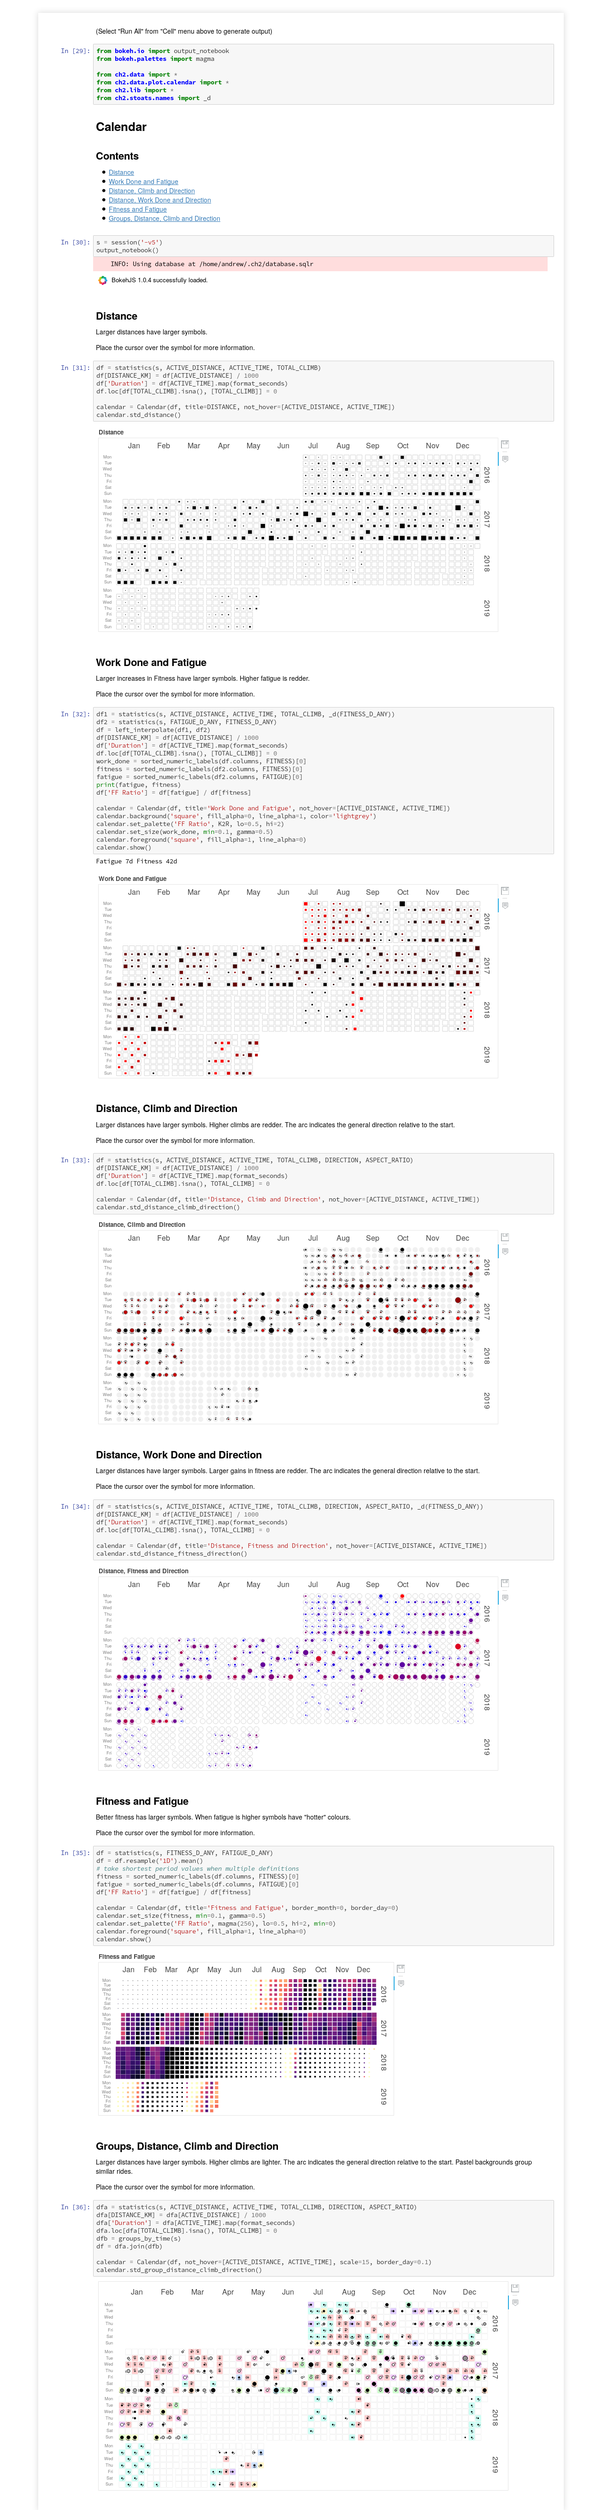
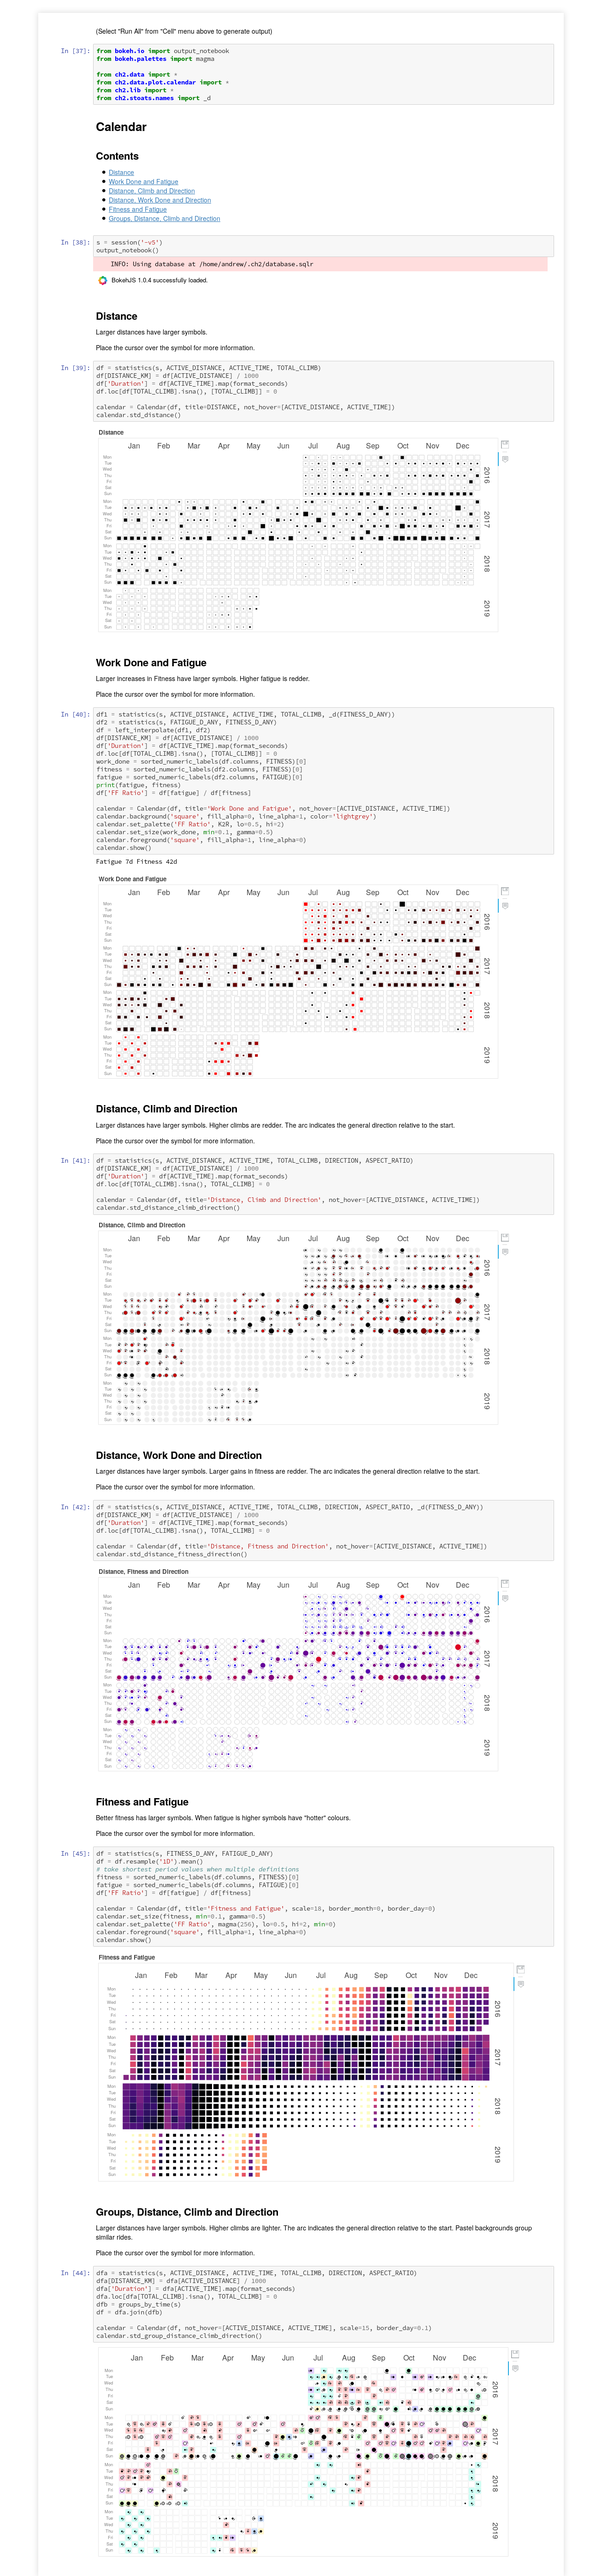
display deltas for FF

Changed region(s): [[0.1531, 0.0, 0.9188, 0.9996], [0.3982, 0.8747, 0.827, 0.9684]]

diff --git a/ch2/stoats/calculate/activity.py b/ch2/stoats/calculate/activity.py
@@ -8,7 +8,7 @@ from ..names import ELEVATION, DISTANCE, M, POWER_ESTIMATE, HEART_RATE, ACTIVE_D
     summaries, ACTIVE_SPEED, ACTIVE_TIME, AVG, S, KMH, MIN_KM_TIME_ANY, MIN, MED_KM_TIME_ANY, PERCENT_IN_Z_ANY, PC, \
     TIME_IN_Z_ANY, MAX_MED_HR_M_ANY, W, BPM, MAX_MEAN_PE_M_ANY, CLIMB_ELEVATION, CLIMB_DISTANCE, CLIMB_TIME, \
     CLIMB_GRADIENT, TOTAL_CLIMB, HR_ZONE, TIME, like, MEAN_POWER_ESTIMATE, ENERGY_ESTIMATE, SPHERICAL_MERCATOR_X, \
-    SPHERICAL_MERCATOR_Y, DIRECTION, DEG, ASPECT_RATIO, FITNESS_D_ANY, FATIGUE_D_ANY, _d
+    SPHERICAL_MERCATOR_Y, DIRECTION, DEG, ASPECT_RATIO, FITNESS_D_ANY, FATIGUE_D_ANY, _d, FF
 from ...data.activity import active_stats, times_for_distance, hrz_stats, max_med_stats, max_mean_stats, \
     direction_stats
 from ...data.climb import find_climbs, Climb
@@ -78,8 +78,8 @@ class ActivityCalculator(ActivityJournalCalculatorMixin, DataFrameCalculatorMixi
         self.__copy_all(ajournal, loader, stats, TIME_IN_Z_ANY, S, None, ajournal.start)
         self.__copy_all(ajournal, loader, stats, MAX_MED_HR_M_ANY, BPM, summaries(MAX, MSR), ajournal.start)
         self.__copy_all(ajournal, loader, stats, MAX_MEAN_PE_M_ANY, W, summaries(MAX, MSR), ajournal.start)
-        self.__copy_all(ajournal, loader, stats, _d(FATIGUE_D_ANY), None, summaries(MAX, MSR), ajournal.start)
-        self.__copy_all(ajournal, loader, stats, _d(FITNESS_D_ANY), None, summaries(MAX, MSR), ajournal.start)
+        self.__copy_all(ajournal, loader, stats, _d(FATIGUE_D_ANY), FF, summaries(MAX, MSR), ajournal.start)
+        self.__copy_all(ajournal, loader, stats, _d(FITNESS_D_ANY), FF, summaries(MAX, MSR), ajournal.start)
         if climbs:
             loader.add(TOTAL_CLIMB, M, summaries(MAX, SUM, MSR), ajournal.activity_group, ajournal,
                        sum(climb[CLIMB_ELEVATION] for climb in climbs), ajournal.start, StatisticJournalFloat)

diff --git a/ch2/stoats/display/activity.py b/ch2/stoats/display/activity.py
@@ -10,7 +10,7 @@ from ..calculate.activity import ActivityCalculator
 from ..calculate.power import PowerCalculator
 from ..names import ACTIVE_DISTANCE, ACTIVE_TIME, ACTIVE_SPEED, MED_KM_TIME_ANY, MAX_MED_HR_M_ANY, CLIMB_ELEVATION, \
     CLIMB_DISTANCE, CLIMB_GRADIENT, CLIMB_TIME, TOTAL_CLIMB, MIN_KM_TIME_ANY, CALORIE_ESTIMATE, \
-    ENERGY_ESTIMATE, MEAN_POWER_ESTIMATE, MAX_MEAN_PE_M_ANY
+    ENERGY_ESTIMATE, MEAN_POWER_ESTIMATE, MAX_MEAN_PE_M_ANY, FITNESS_D_ANY, FATIGUE_D_ANY, _d
 from ...data.climb import climbs_for_activity
 from ...lib.date import format_seconds, time_to_local_time, to_time, HMS
 from ...lib.utils import label
@@ -47,6 +47,10 @@ class ActivityDiary(JournalDiary):
         for name in (ACTIVE_DISTANCE, ACTIVE_TIME, ACTIVE_SPEED, MEAN_POWER_ESTIMATE):
             sjournal = StatisticJournal.at(s, ajournal.start, name, ActivityCalculator, ajournal.activity_group)
             if sjournal:
+                body.append(Text([label('%s: ' % sjournal.statistic_name.name)] + self.__format_value(sjournal, date)))
+        for name in (_d(FITNESS_D_ANY), _d(FATIGUE_D_ANY)):
+            for sjournal in StatisticJournal.at_like(s, ajournal.start, name, ActivityCalculator,
+                                                     ajournal.activity_group):
                 body.append(Text([label('%s: ' % sjournal.statistic_name.name)] + self.__format_value(sjournal, date)))
         for name in (ENERGY_ESTIMATE, CALORIE_ESTIMATE):
             sjournal = StatisticJournal.at(s, ajournal.start, name, PowerCalculator, ajournal.activity_group)

diff --git a/ch2/squeal/tables/statistic.py b/ch2/squeal/tables/statistic.py
@@ -12,7 +12,7 @@ from ..types import Time, ShortCls, NullStr
 from ..utils import add
 from ...lib.date import format_seconds, local_date_to_time
 from ...lib.utils import sigfig
-from ...stoats.names import KMH, PC, BPM, STEPS_UNITS, S, M, KG, W, KCAL, KJ
+from ...stoats.names import KMH, PC, BPM, STEPS_UNITS, S, M, KG, W, KCAL, KJ, FF
 
 
 class StatisticName(Base):
@@ -190,6 +190,14 @@ class StatisticJournal(Base):
                    StatisticName.constraint == constraint).one_or_none()
 
     @classmethod
+    def at_like(cls, s, time, name, owner, constraint):
+        return s.query(StatisticJournal).join(StatisticName). \
+            filter(StatisticName.name.like(name),
+                   StatisticJournal.time == time,
+                   StatisticName.owner == owner,
+                   StatisticName.constraint == constraint).all()
+
+    @classmethod
     def before(cls, s, time, name, owner, constraint):
         return s.query(StatisticJournal).join(StatisticName). \
             filter(StatisticName.name == name,
@@ -286,6 +294,8 @@ class StatisticJournalFloat(StatisticJournal):
             return '%s %s' % (sigfig(self.value, 2), units)
         elif units in (BPM, STEPS_UNITS):
             return '%d %s' % (int(self.value), units)
+        elif units == FF:
+            return '%d' % int(self.value)
         else:
             return '%s %s' % (self.value, units)
 

diff --git a/ch2/uranus/template/calendar.py b/ch2/uranus/template/calendar.py
@@ -48,11 +48,11 @@ def calendar():
     '''
 
     df1 = statistics(s, ACTIVE_DISTANCE, ACTIVE_TIME, TOTAL_CLIMB, _d(FITNESS_D_ANY))
+    df1.loc[df1[TOTAL_CLIMB].isna(), [TOTAL_CLIMB]] = 0  # before interpolation
     df2 = statistics(s, FATIGUE_D_ANY, FITNESS_D_ANY)
     df = left_interpolate(df1, df2)
     df[DISTANCE_KM] = df[ACTIVE_DISTANCE] / 1000
     df['Duration'] = df[ACTIVE_TIME].map(format_seconds)
-    df.loc[df[TOTAL_CLIMB].isna(), [TOTAL_CLIMB]] = 0
     work_done = sorted_numeric_labels(df.columns, FITNESS)[0]
     fitness = sorted_numeric_labels(df2.columns, FITNESS)[0]
     fatigue = sorted_numeric_labels(df2.columns, FATIGUE)[0]
@@ -115,7 +115,7 @@ def calendar():
     fatigue = sorted_numeric_labels(df.columns, FATIGUE)[0]
     df['FF Ratio'] = df[fatigue] / df[fitness]
 
-    calendar = Calendar(df, title='Fitness and Fatigue', border_month=0, border_day=0)
+    calendar = Calendar(df, title='Fitness and Fatigue', scale=18, border_month=0, border_day=0)
     calendar.set_size(fitness, min=0.1, gamma=0.5)
     calendar.set_palette('FF Ratio', magma(256), lo=0.5, hi=2, min=0)
     calendar.foreground('square', fill_alpha=1, line_alpha=0)

diff --git a/ch2/stoats/names.py b/ch2/stoats/names.py
@@ -93,6 +93,7 @@ def summaries(*args): return ','.join(args)
 BPM = 'bpm'
 DEG = 'deg'
 ENTRIES = 'entries'
+FF = 'FF'
 H = 'h'
 KJ = 'kJ'
 KCAL = 'kCal'
@@ -108,7 +109,7 @@ STEPS_UNITS = 'steps'
 W = 'W'
 
 
-def _d(name): return f'Delta {name}'
+def _d(name): return f'Δ {name}'
 def _avg(name): return f'Avg {name}'
 def _cor(name): return f'Cor {name}'
 def _slash(name, units): return f'{name} / {units}'
